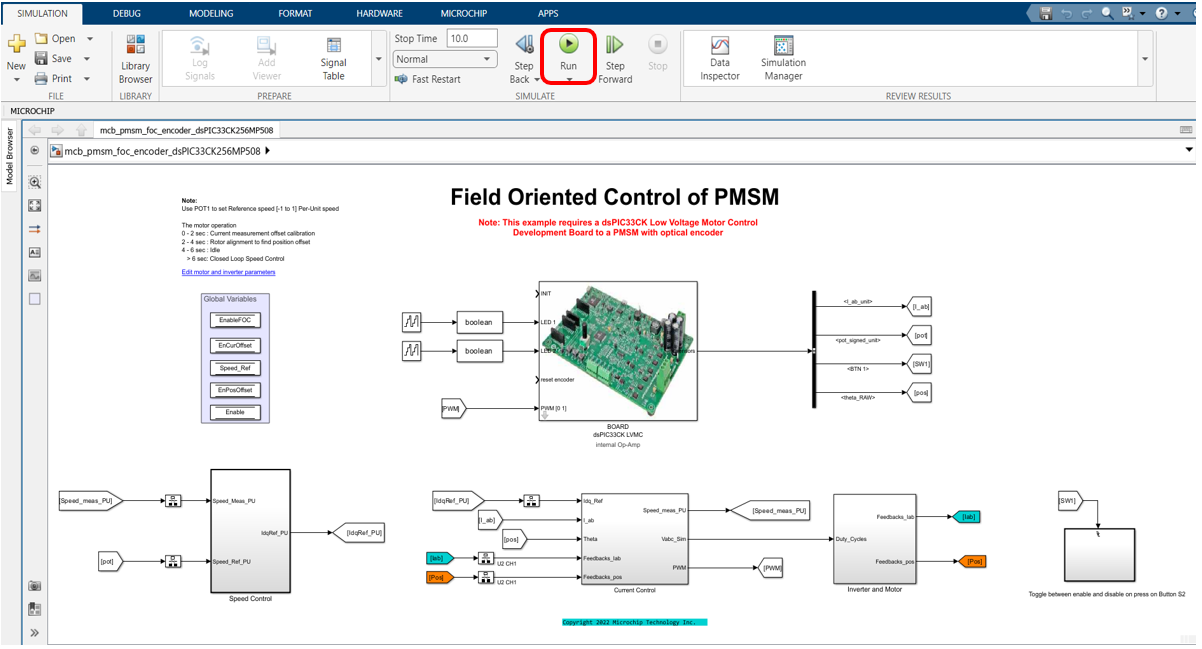
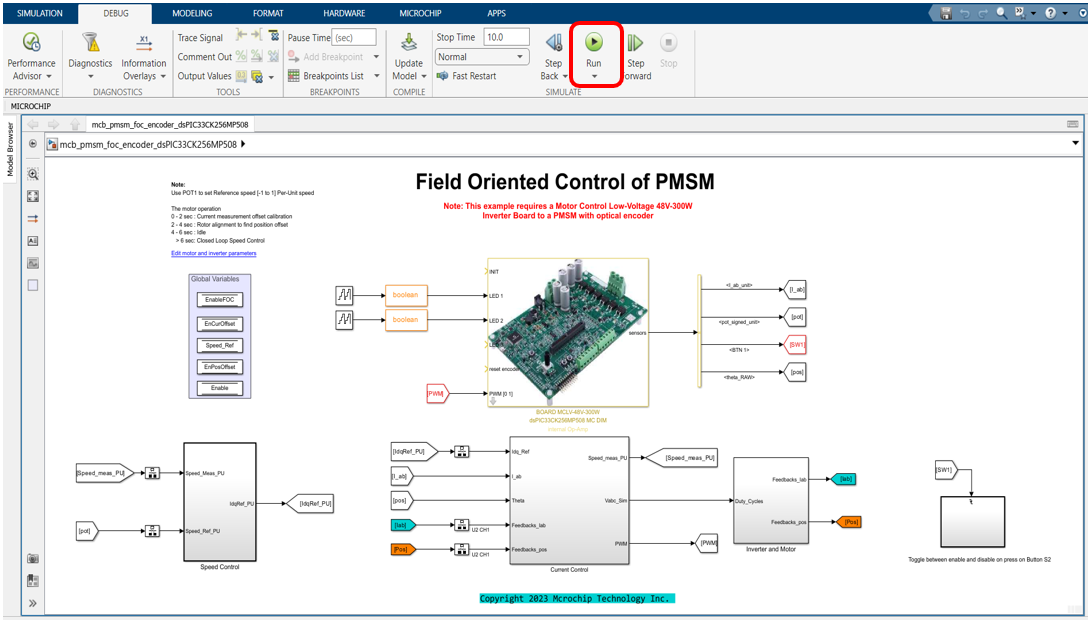
Readme file is updated. New images are added.

diff --git a/README.md b/README.md
@@ -4,11 +4,11 @@
 
 ## 1. INTRODUCTION
 <p style='text-align: justify;'>
-This document describes the setup requirements for running the Optical Encoder Based FOC algorithm, using MATLAB/Simulink and dsPIC33CK Low Voltage Motor Control (LVMC) Board.</p>
+This document describes the setup requirements for running the Optical Encoder Based FOC algorithm, using MATLAB/Simulink and Motor Control Low-Voltage 48V-300W Inverter Board.</p>
 
 ## 2.	SUGGESTED DEMONSTRATION REQUIREMENTS
 ### 2.1 MATLAB Model Required for the Demonstration
--  MATLAB model can be cloned or downloaded as zip file from the Github repository ([link](https://github.com/microchip-pic-avr-solutions/matlab-lvmc-dspic33ck256mp508-foc-opticalencoder)).
+-  MATLAB model can be cloned or downloaded as zip file from the Github repository ([link](https://github.com/microchip-pic-avr-solutions/matlab-mclv-48v-300w-dspic33ck256mp508-foc-opticalencoder)).
 
 ### 2.2	Software Tools Used for Testing the MATLAB/Simulink Model
 1.	MPLAB X IDE and IPE (v6.0)
@@ -26,7 +26,8 @@ This document describes the setup requirements for running the Optical Encoder B
 >The software used for testing the model during release is listed above. It is recommended to use the version listed above or later versions for building the model.
 
 ### 2.3	Hardware Tools Required for the Demonstration
-- dsPIC33CK Low Voltage Motor Control (LVMC) Development Board ([DM330031](https://www.microchip.com/en-us/development-tool/DM330031))
+- Motor Control Low-Voltage 48V-300W Inverter Board ([EV18H47A](https://www.microchip.com/en-us/development-tool/EV18H47A))
+- dsPIC33CK256MP508 Motor Control Dual In-line Module (EV62P66A)
 - 24V Power Supply ([AC002013](https://www.microchipdirect.com/dev-tools/AC002013)) 
 - 24V, 3-Phase Brushless DC Permanent Magnet Hurst Motor ([AC300022](https://www.microchip.com/en-us/development-tool/AC300022))
 
@@ -37,27 +38,32 @@ This document describes the setup requirements for running the Optical Encoder B
 ## 3. HARDWARE SETUP
 <p style='text-align: justify;'>This section describes hardware setup required for the demonstration.</p>
 
-1. <p style='text-align: justify;'> Connect the 3-phase wires from the motor to PHA, PHB, and PHC of the J14 connector and encoder wires from the motor to +5V, GND, QEA and QEB terminals of connector J8 (in the same order as shown in the picture), provided on the dsPIC33CK LVMC Board.</p>
+1. <p style='text-align: justify;'> Connect the 3-phase wires from the motor to PHA, PHB, and PHC of the J4 connector and encoder wires from the motor to +5V, GND, QA and QB terminals of connector J7 (in the same order as shown in the picture), provided on the MCLV-48V-300W Inverter Board.</p>
 
     <p align="left" >
     <img  src="images/har1.png" alt="har1" style="width:200px;"></p>
     <p align="left" >
     <img  src="images/har1_1.png" alt="har1_1" style="width:185px;"></p>
 
-2. <p style='text-align: justify;'> Plug in the 24V power supply to connector J1 provided on the dsPIC33CK LVMC Board. Alternatively, the Inverter Board can also be powered through Connector J2.</p>
+2. Insert the **dsPIC33CK256MP508 Motor Control DIM** into the DIM Interface **connector J8** on the MCLV-48V-300W Inverter Board. Make sure the DIM is placed correctly and oriented before going ahead.
 
-    <p align="left" >
-    <img  src="images/har3.png"></p>
+     <p align="left" >
+     <img  src="images/dimconnected.PNG"></p>
 
-3. <p style='text-align: justify;'> The board has an onboard programmer 'PICkit™ On Board (PKoBv4)', which can be used for programming or debugging the dsPIC33CK256MP508. To use an on-board programmer, connect a micro-USB cable between Host PC and Micro USB connector J13 provided on the dsPIC33CK LVMC Board.</p>
+4. Plug the 24V power supply to **connector J1** on the MCLV-48V-300W Inverter Board. Alternatively, the Inverter Board can also be powered through connector J3.
+      <p align="left">
+      <img  src="images/mclvpower.png"></p>
+ 
 
-    <p align="left" >
-    <img  src="images/har4.png"></p>
+ 5. The board has an onboard programmer **PICkit™ On Board (PKoBv4)** , which can be used for programming or debugging the microcontroller or dsPIC DSC on the DIM. To use the onboard programmer, connect a micro-USB cable between the Host PC and **connector J16** on the MCLV-48V-300W Inverter Board.
+      <p align="left">
+     <img  src="images/mclvpkob4.png"></p>
 
-4. <p style='text-align: justify;'>	Alternatively, the device can also be programmed using the programmer/debugger (MPLAB® PICkit™ 4 In-Circuit Debugger - PG164140) by interfacing it through connector J10 of the dsPIC33CK LVMC Board, as shown below. Ensure that the programmer is oriented correctly before proceeding.</p>
-
-    <p align="left" >
-    <img  src="images/har5.png"></p>
+ 6. Alternatively, connect the Microchip programmer/debugger MPLAB® PICkit™ 4 In-Circuit Debugger between the Host PC used for programming the device and the **ICSP header J9** on the MCLV-48V-300W Inverter Board (as shown). Ensure that PICkit 4 is oriented correctly before proceeding.
+      <p align="left">
+       <img  src="images/mclvprogramming.PNG"></p>
+ 
+ </br>
 
 ## 4.	BASIC DEMONSTRATION
 <p style='text-align: justify;'> Follow the below instructions step-by-step, to set up and run the motor control demo application:</p>
@@ -68,7 +74,7 @@ This document describes the setup requirements for running the Optical Encoder B
     <p align="left" >
     <img  src="images/dem2.png"></p>
 
-3.	<p style='text-align: justify;'> Double click and open the .m file. This .m file contains the configuration parameter for the motor and board. By default, the .m file is configured to run Hurst 300 motor and LVMC board. Run the file by clicking the <b>“Run”</b> icon and wait till all variables gets loaded on the <b>‘Workspace’</b> tab.
+3.	<p style='text-align: justify;'> Double click and open the .m file. This .m file contains the configuration parameter for the motor and board. By default, the .m file is configured to run Hurst 300 motor and MCLV-48V-300W Inverter Board. Run the file by clicking the <b>“Run”</b> icon and wait till all variables gets loaded on the <b>‘Workspace’</b> tab.
 
     <p align="left">
       <img  src="images/dem3.png"></p>
@@ -92,7 +98,7 @@ This document describes the setup requirements for running the Optical Encoder B
       <img  src="images/dem6.png"></p>
     </p>
 
-7.	<p style='text-align: justify;'>From this Simulink model an MPLAB X project can be generated, and it can be used to run the PMSM motor using LVMC board. <p style='text-align: justify;'>To generate the code from the Simulink model, go to the <b>"MICROCHIP"</b> tab, and enable the tabs shown in the figure below. 
+7.	<p style='text-align: justify;'>From this Simulink model an MPLAB X project can be generated, and it can be used to run the PMSM motor using MCLV-48V-300W Inverter Board. <p style='text-align: justify;'>To generate the code from the Simulink model, go to the <b>"MICROCHIP"</b> tab, and enable the tabs shown in the figure below. 
 
     <p align="left">
       <img  src="images/dem7.png"></p>
@@ -115,25 +121,25 @@ This document describes the setup requirements for running the Optical Encoder B
 11.	<p style='text-align: justify;'>Keep the potentiometer (<b>POT1</b>) position at the middle. Then, to Run the motor, press the push button <b>SW1</b>.
 
     <p align="left">
-      <img  src="images/dem11.png"></p> 
+      <img  src="images/pushbuttons.png"></p> 
     </p>
 
 12.	<p style='text-align: justify;'>In this model, the motor is enabled to run in both clockwise and anticlockwise direction. The reference speed of it set by the potentiometer (<b>“POT1”</b>). The zero-reference speed is the mid-point of the POT1, vary the POT1 in either direction to increase the motor speed in the corresponding direction.
 
     <p align="left">
-      <img  src="images/dem12.png"></p>
+      <img  src="images/potentiometer.png"></p>
     </p>
 
 13.	Press the push button <b>SW1</b> to stop the motor.
 
     <p align="left">
-      <img  src="images/dem13.png"></p>
+      <img  src="images/pushbuttons.png"></p>
     </p>
 
 ## 5.	DATA VISUALIZATION USING MOTOR CONTROL BLOCKSET (MCB) HOST MODEL
 <p style='text-align: justify;'>The FOC model comes with the initialization required for data visualization using Motor Control Blockset Host Model (MCB Host Model). The MCB Host Model is a Simulink model which facilitates data visualization through the UART Serial Interface. 
 
-1.	<p style='text-align: justify;'>To establish serial communication with the host PC, connect a micro-USB cable between the host PC and the dsPIC33CK LVMC Board (J13 connector). This interface is used for programming as well. (Alternatively, a micro-USB cable can be connected from the host PC to the J6 connector of the dsPIC33CK LVMC Board to establish the serial communication).
+1.	<p style='text-align: justify;'>To establish serial communication with the host PC, connect a micro-USB cable between the host PC and the MCLV-48V-300W Inverter Board (J16 connector). This interface is used for programming as well.
     <p align="left">
       <img  src="images/host1.png"></p>
     </p>
@@ -167,11 +173,12 @@ This document describes the setup requirements for running the Optical Encoder B
 
 ## 	6. REFERENCES:
 For more information, refer to the following documents or links.
-1.	dsPIC33CK LVMC Board User’s Guide ([DS50003297](http://ww1.microchip.com/downloads/en/DeviceDoc/DS50002927a.pdf)) 
-2.	[MPLAB® X IDE installation](https://microchipdeveloper.com/mplabx:installation)
-3.	[MPLAB® XC16 Compiler installation](https://microchipdeveloper.com/mplabx:installation)
-4.  [Motor Control Blockset](https://in.mathworks.com/help/mcb/)
-5.  [MPLAB Device Blocks for Simulink :dsPIC, PIC32 and SAM mcu](https://in.mathworks.com/matlabcentral/fileexchange/71892-mplab-device-blocks-for-simulink-dspic-pic32-and-sam-mcu)
+1.	Motor Control Low-Voltage 48V-300W Inverter Board ([EV18H47A](https://www.microchip.com/en-us/development-tool/EV18H47A)) 
+2. dsPIC33CK256MP508 Motor Control Dual In-line Module (EV62P66A)
+3.	[MPLAB® X IDE installation](https://microchipdeveloper.com/mplabx:installation)
+4.	[MPLAB® XC16 Compiler installation](https://microchipdeveloper.com/mplabx:installation)
+5.  [Motor Control Blockset](https://in.mathworks.com/help/mcb/)
+6.  [MPLAB Device Blocks for Simulink :dsPIC, PIC32 and SAM mcu](https://in.mathworks.com/matlabcentral/fileexchange/71892-mplab-device-blocks-for-simulink-dspic-pic32-and-sam-mcu)
 
 
 
